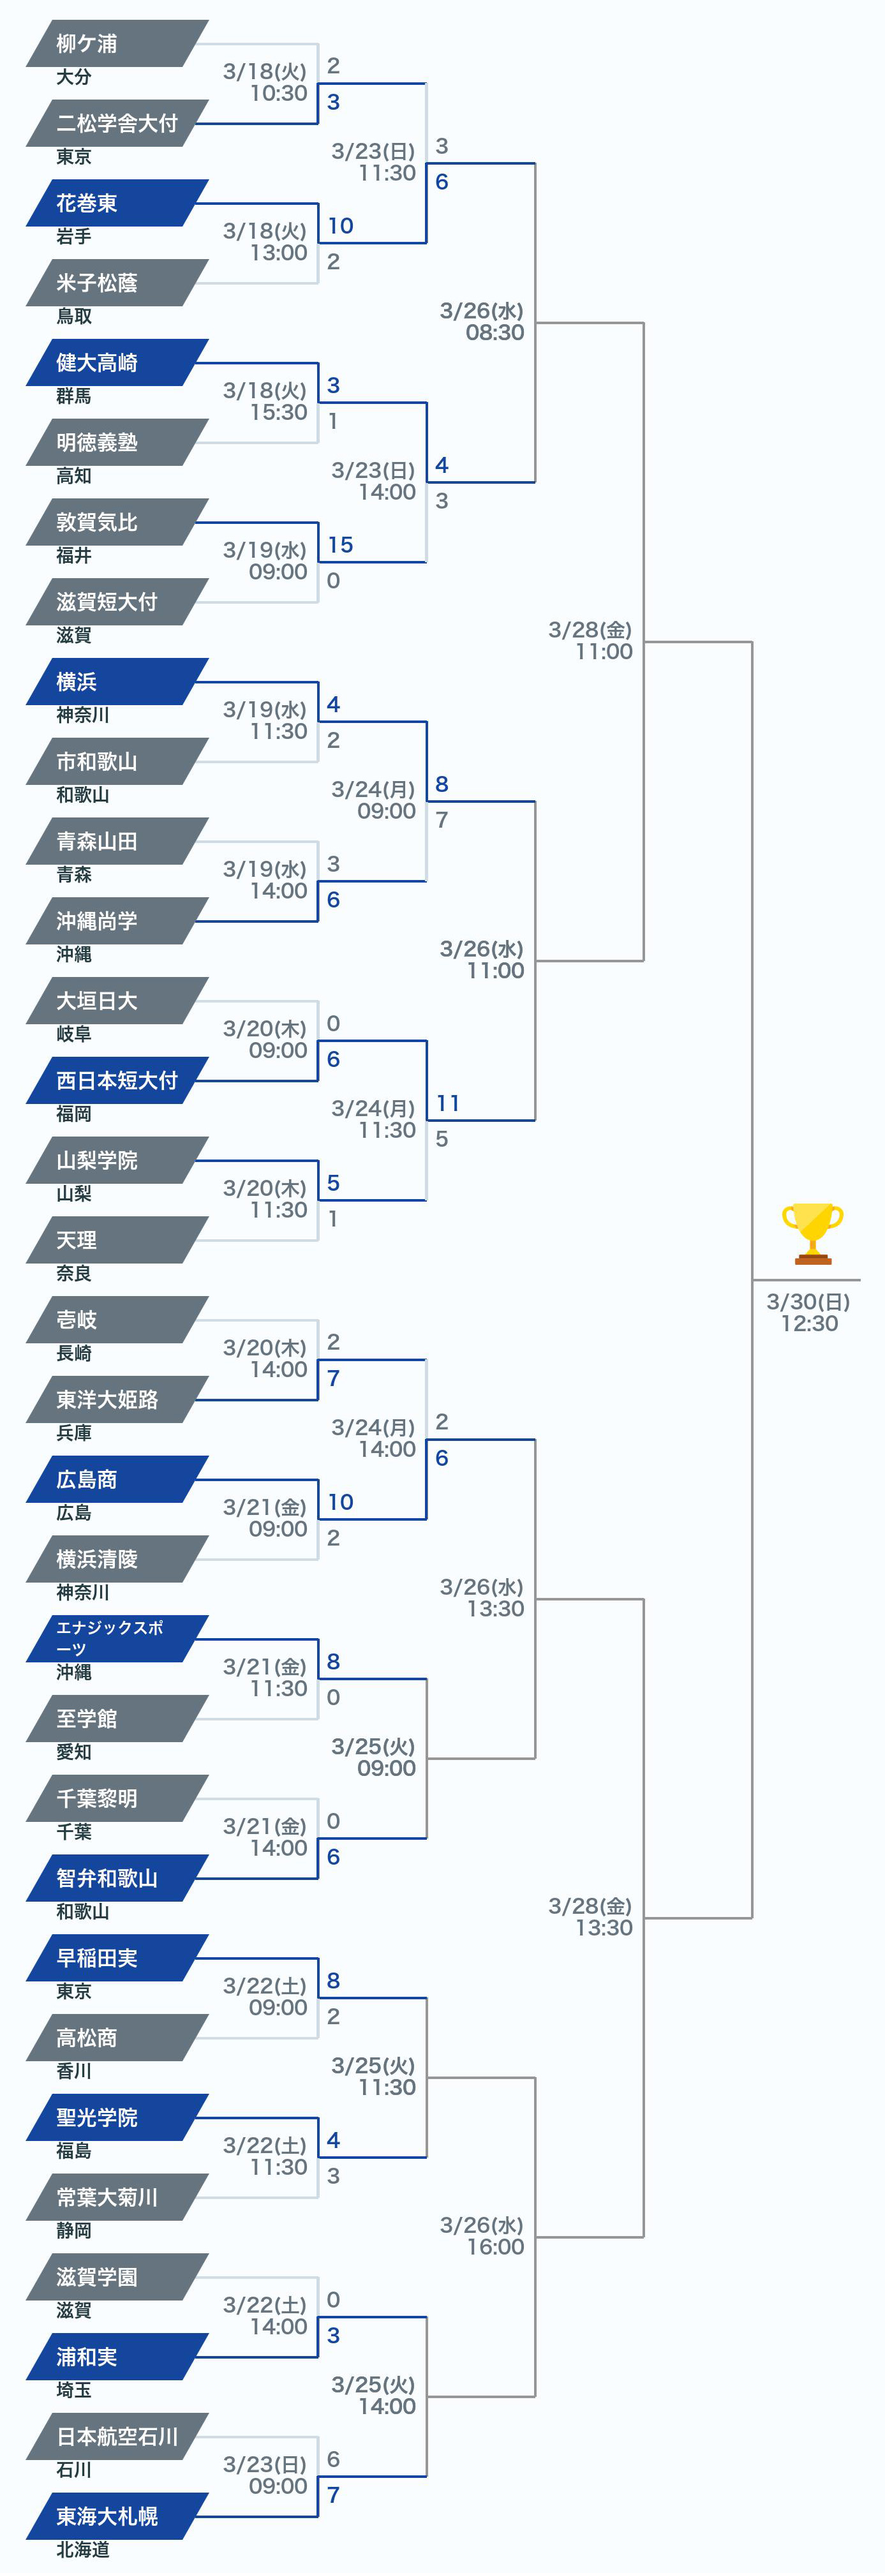
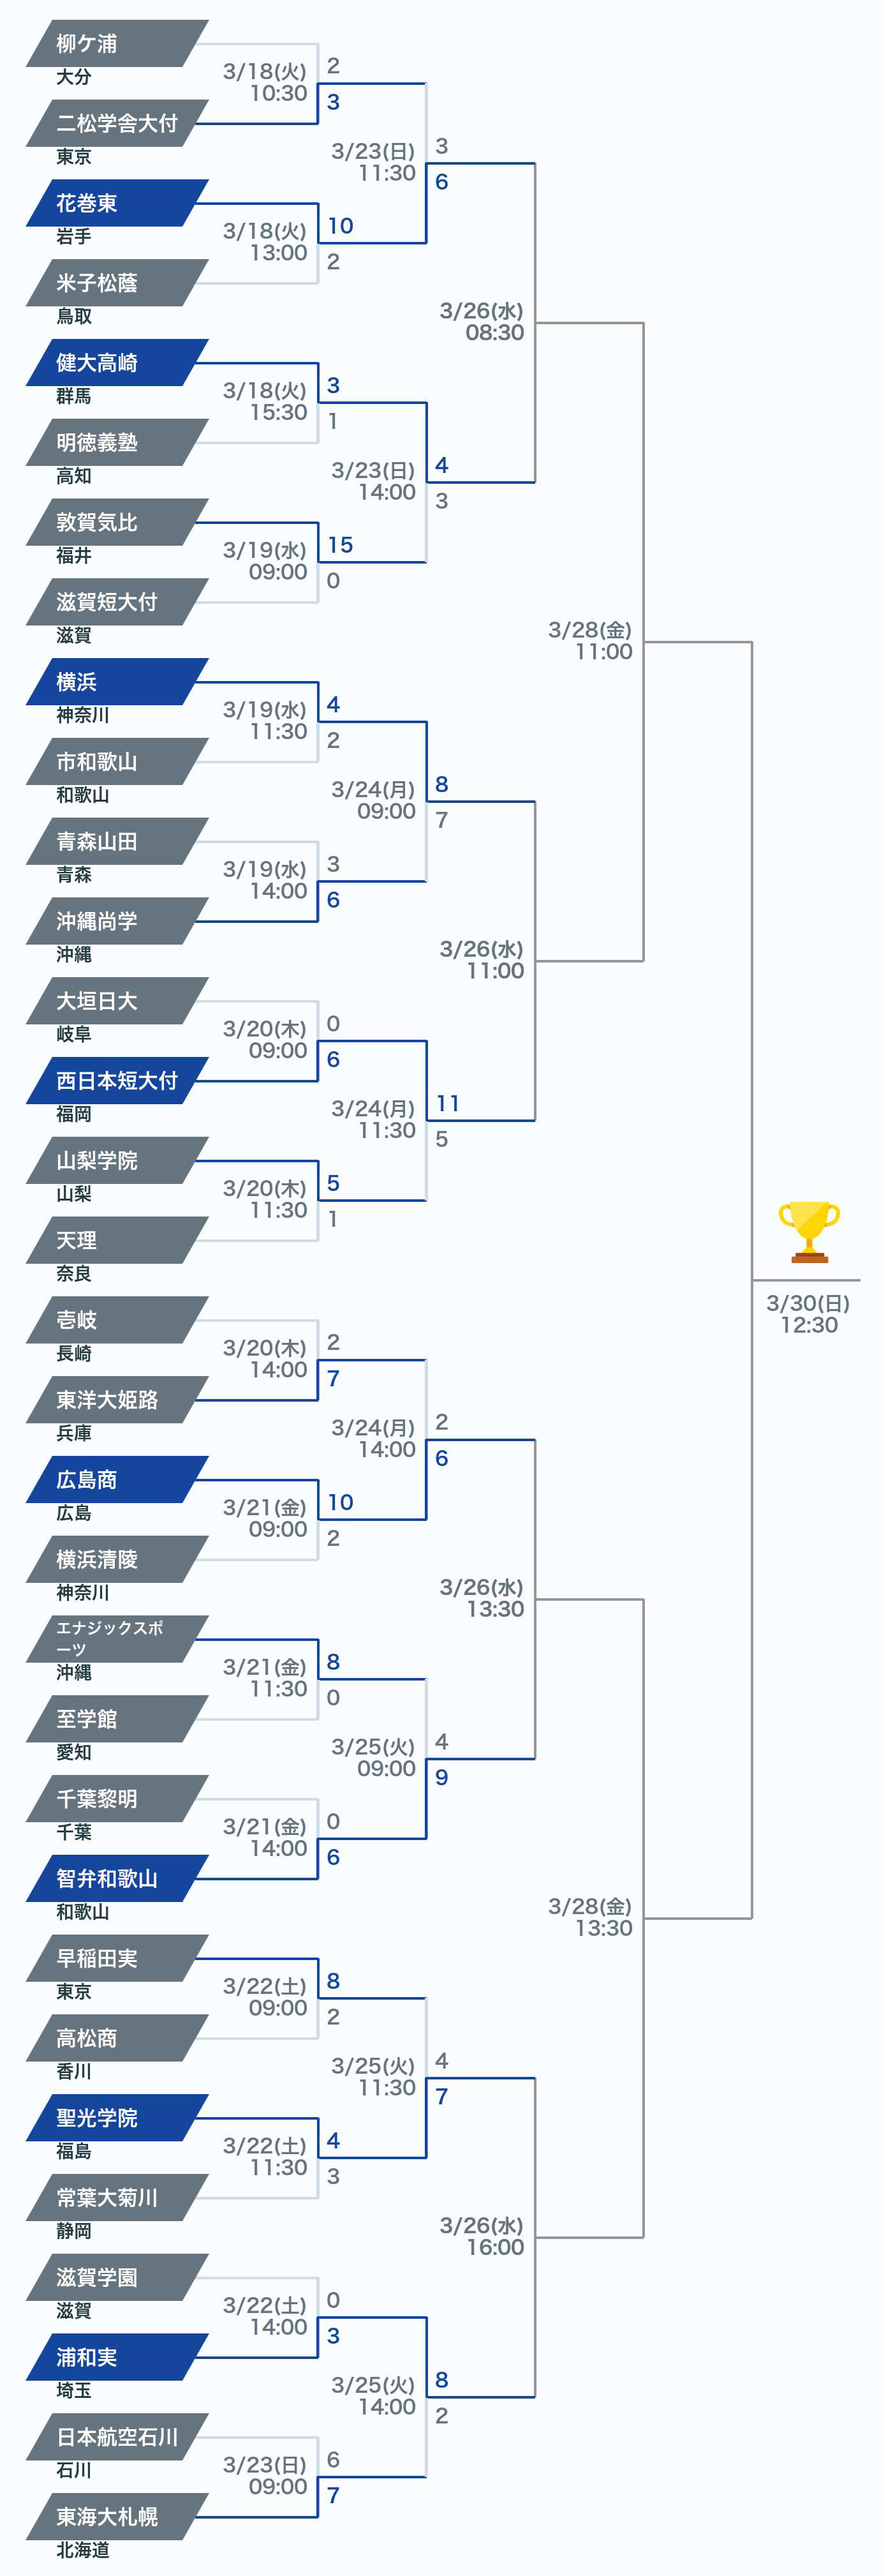
325の結果を反映しました

diff --git a/index.html b/index.html
@@ -131,7 +131,10 @@
                   青森山田
                   <p class="text-small">(1回戦 沖繩商学 3 - 6)</p>
                 </td>
-                <td>早稲田実</td>
+                <td class="gray">
+                  早稲田実
+                  <p class="text-small">(1回戦 聖光学院 4 - 7)</p>
+                </td>
               </tr>
               <tr>
                 <td style="padding: 8px 0">圭介</td>
